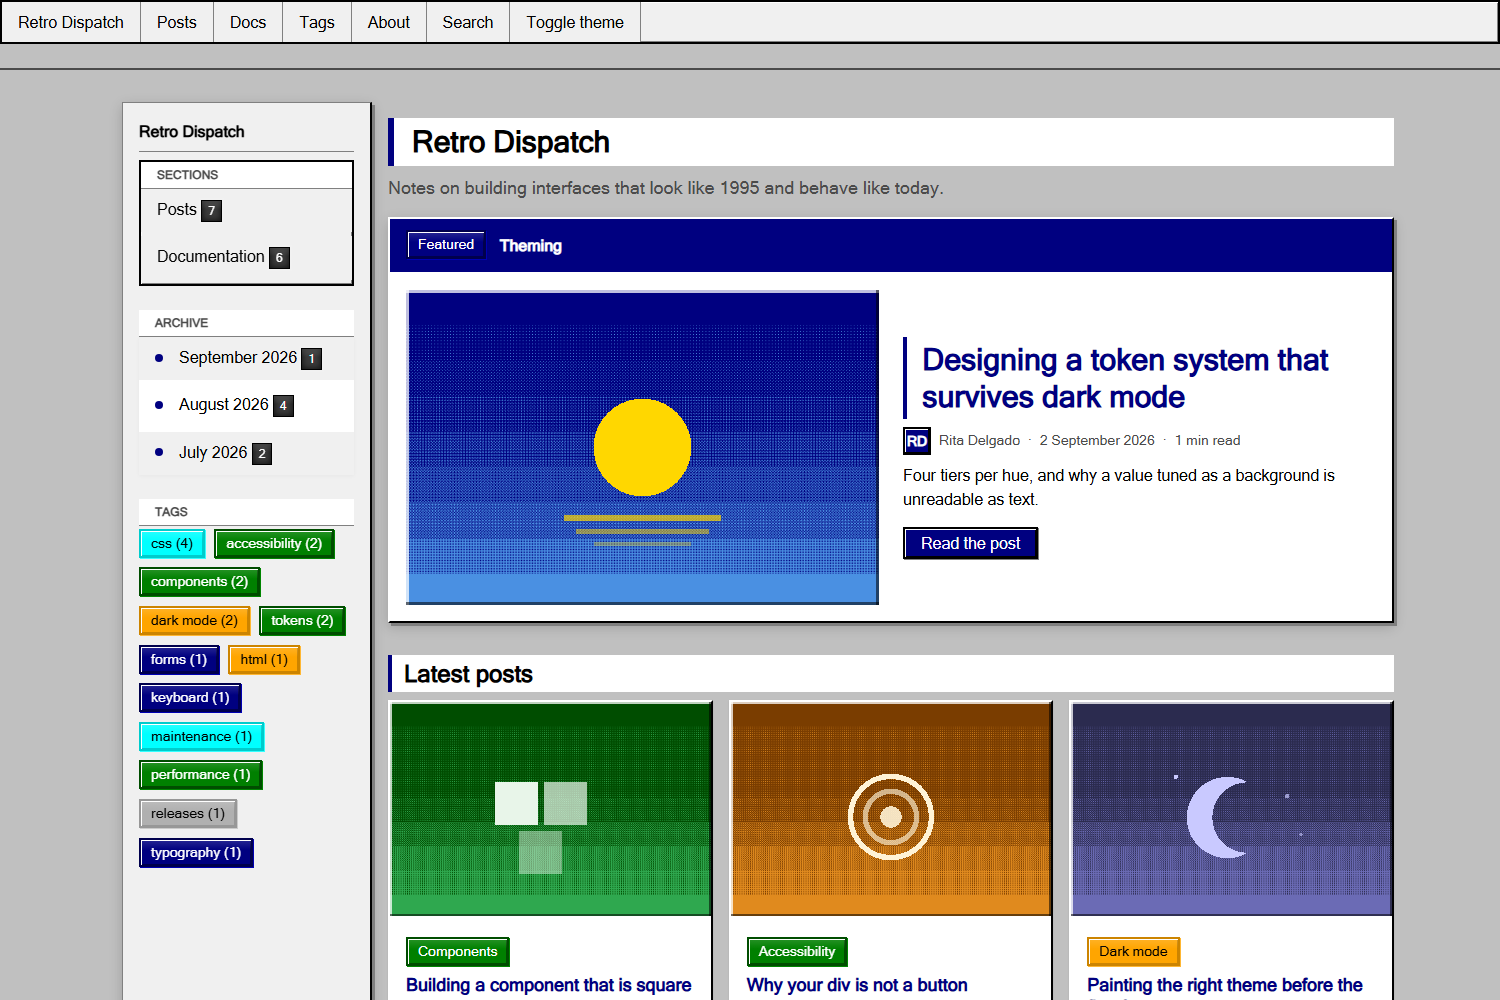
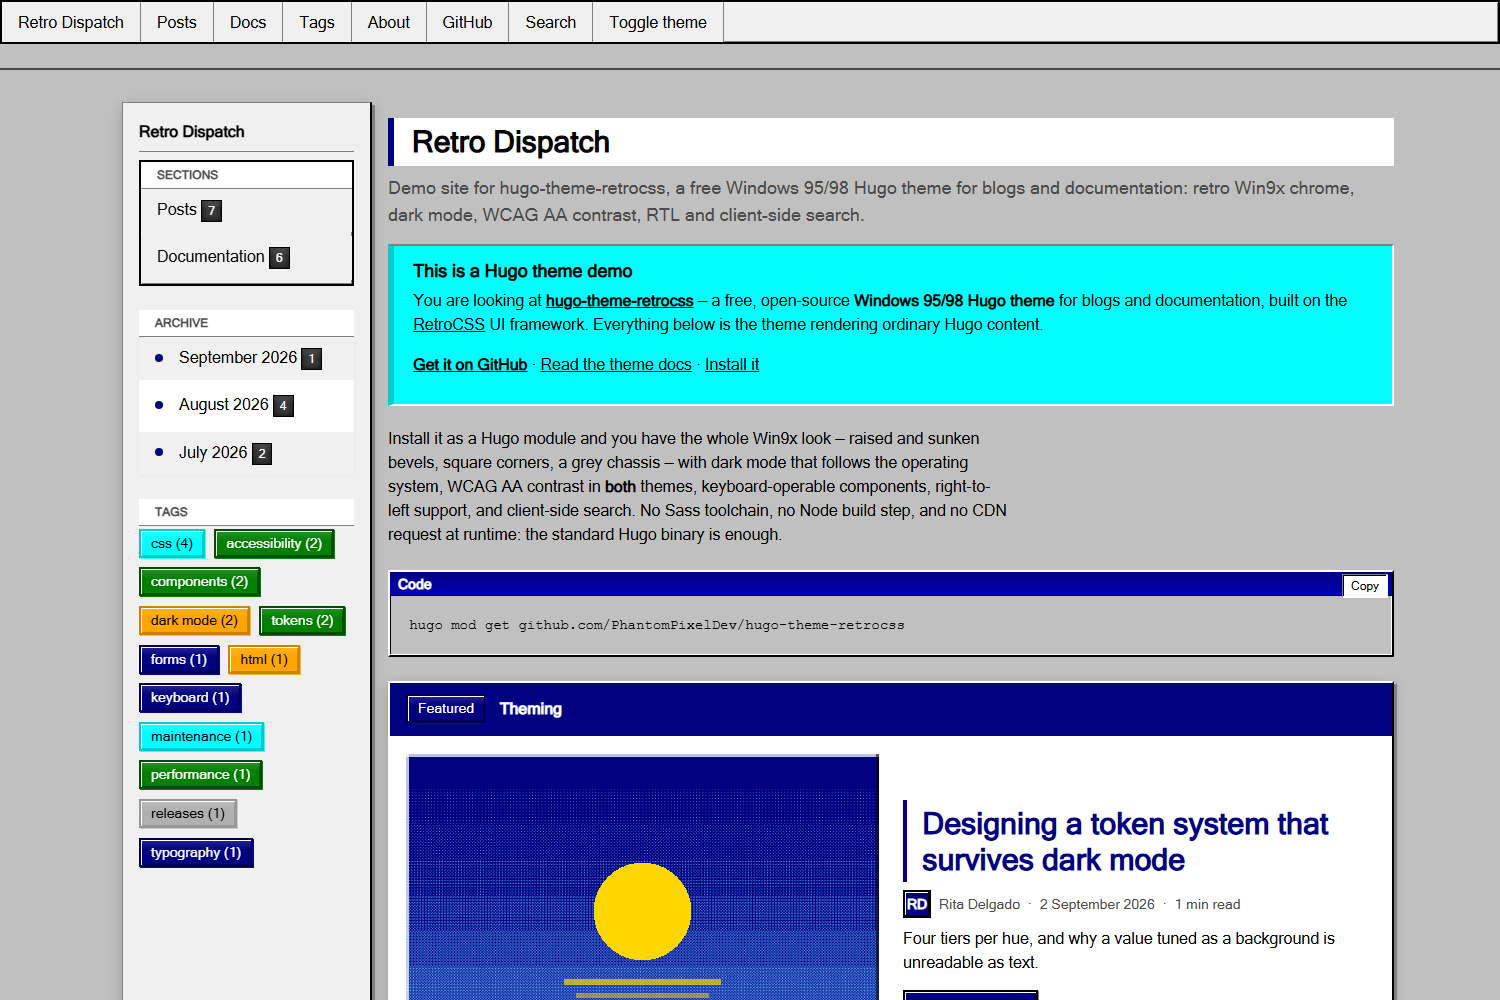
feat: say what the demo site is, and fix links that leave the root
The demo home page now leads with what a visitor actually needs to know —
that this is a Hugo theme, where the source is, and how to install it —
and params.tagline puts that in the home page's <title>, where a search
result was otherwise nothing but the site's name. The footer credits the
theme, which params.themeCredit turns off.

Two defects the new copy exposed:

- A hand-written root-relative link (/docs/) dropped the baseURL's path,
  so every internal link in content 404'd on GitHub Pages. relURL does
  not prefix an already-absolute path, so the render hook takes the
  prefix from the home page's own RelPermalink.
- Links inside a filled alert kept the page-surface link colour, which
  measures 1.56:1 against the info fill in dark mode. They now ride the
  alert's on-fill colour, which is legible by construction. The page gate
  caught this one.

Also adds the module.hugoVersion block and absolute README image paths
that themes.gohugo.io requires, and drops theme.toml's [original] block:
that field is for a ported theme, and this is not one.

diff --git a/layouts/_markup/render-link.html b/layouts/_markup/render-link.html
@@ -1,4 +1,16 @@
 {{- $u := urls.Parse .Destination -}}
 {{- $external := and $u.IsAbs (ne $u.Host (urls.Parse site.BaseURL).Host) -}}
-<a href="{{ .Destination | safeURL }}"{{ with .Title }} title="{{ . }}"{{ end }}
+{{- $href := .Destination -}}
+{{- /* A root-relative link written by hand ("/docs/") ignores the baseURL's
+       path, so it 404s the moment the site is served from a subdirectory —
+       GitHub Pages being the obvious one. relURL does not fix this for an
+       already-absolute path, so the prefix is taken from the home page's own
+       RelPermalink, which is "/" on a site served from the root. */ -}}
+{{- if and (hasPrefix $href "/") (not (hasPrefix $href "//")) -}}
+  {{- $prefix := strings.TrimSuffix "/" site.Home.RelPermalink -}}
+  {{- if and $prefix (not (hasPrefix $href (printf "%s/" $prefix))) -}}
+    {{- $href = printf "%s%s" $prefix $href -}}
+  {{- end -}}
+{{- end -}}
+<a href="{{ $href | safeURL }}"{{ with .Title }} title="{{ . }}"{{ end }}
    {{- if $external }} rel="noopener noreferrer"{{ end }}>{{ .Text }}</a>

diff --git a/layouts/partials/head.html b/layouts/partials/head.html
@@ -1,6 +1,9 @@
 {{- $title := .Title | default site.Title -}}
 {{- $isHome := .IsHome -}}
-{{- $pageTitle := cond $isHome site.Title (printf "%s — %s" $title site.Title) -}}
+{{- /* A home page titled with nothing but the site name tells a search engine
+       nothing about what the site is; params.tagline is what fills that in. */ -}}
+{{- $pageTitle := printf "%s — %s" $title site.Title -}}
+{{- if $isHome }}{{ $pageTitle = site.Title }}{{ with site.Params.tagline }}{{ $pageTitle = printf "%s — %s" site.Title . }}{{ end }}{{ end -}}
 {{- $description := .Description | default (.Summary | plainify | truncate 160) | default site.Params.description | default site.Params.Description -}}
 <meta charset="utf-8">
 <meta name="viewport" content="width=device-width, initial-scale=1.0">

diff --git a/assets/css/theme.css b/assets/css/theme.css
@@ -128,3 +128,11 @@
 .search-result { margin-bottom: var(--retro-spacing-md); }
 .search-result h2 { margin: 0 0 var(--retro-spacing-xs); font-size: var(--retro-font-size-lg); }
 .search-result mark { background: var(--retro-warning); color: var(--retro-warning-fg); }
+
+/* --- links on filled surfaces ------------------------------------------- */
+/* The default link colour is tuned as text on a *page* surface. Inside a
+   filled alert it is being read against the hue itself — 1.56:1 on the info
+   fill in dark mode. Riding the alert's own on-fill colour is legible by
+   construction, because the framework guarantees every fill/on-fill pair. */
+.retro-alert a { color: inherit; text-decoration: underline; }
+.retro-alert a:hover { text-decoration: none; }

diff --git a/layouts/partials/footer.html b/layouts/partials/footer.html
@@ -7,7 +7,11 @@
     {{ i18n "builtWith" | default "Built with" }}
     <a href="https://gohugo.io/">Hugo</a>
     {{ i18n "and" | default "and" }}
-    <a href="https://github.com/PhantomPixelDev/RetroCSS">RetroCSS{{ with $retro }} {{ .version }}{{ end }}</a>
+    {{- if site.Params.themeCredit | default true }}
+    <a href="https://github.com/PhantomPixelDev/hugo-theme-retrocss" rel="noopener">RetroCSS for Hugo</a>
+    {{- else }}
+    <a href="https://github.com/PhantomPixelDev/RetroCSS" rel="noopener">RetroCSS{{ with $retro }} {{ .version }}{{ end }}</a>
+    {{- end }}
     {{- with .OutputFormats.Get "rss" }} &middot; <a href="{{ .RelPermalink }}">RSS</a>{{ end -}}
   </p>
 </footer>

diff --git a/layouts/partials/nav.html b/layouts/partials/nav.html
@@ -14,7 +14,8 @@
     </div>
       {{- else }}
     <a class="retro-nav-item" href="{{ .URL | relLangURL }}"
-       {{- with .Title }} data-retro-tooltip="{{ . }}"{{ end }}
+       {{- with .Params.tooltip }} data-retro-tooltip="{{ . }}"{{ end }}
+       {{- if strings.HasPrefix .URL "http" }} rel="noopener"{{ end }}
        {{- if or ($.IsMenuCurrent .Menu .) ($.HasMenuCurrent .Menu .) }} aria-current="page"{{ end }}>{{ .Name }}</a>
       {{- end }}
     {{- end }}

diff --git a/README.md b/README.md
@@ -11,7 +11,7 @@
 
 **[📺 Live demo](https://phantompixeldev.github.io/hugo-theme-retrocss/) • [🎨 RetroCSS](https://github.com/PhantomPixelDev/RetroCSS) • [📖 Theme docs](https://phantompixeldev.github.io/hugo-theme-retrocss/docs/)**
 
-![The demo site in light mode](images/screenshot.png)
+![The demo site in light mode](https://raw.githubusercontent.com/PhantomPixelDev/hugo-theme-retrocss/main/images/screenshot.png)
 
 </div>
 
@@ -36,8 +36,8 @@ Every shot below is the demo site in this repository, captured from the built ou
 
 | | |
 | --- | --- |
-| ![Home page in dark mode: sidebar with sections, archive and tag cloud, a featured post card, and a grid of post cards](images/home-dark.png) **Home, dark** | ![A blog post in light mode: breadcrumbs, hero image, byline, prose, and a code block with a Windows 95 title bar](images/post.png) **Post, light** |
-| ![A documentation page in dark mode: section tree, in-page contents, and the shortcode gallery showing alerts and cards](images/docs.png) **Docs, dark** | ![The search page in light mode showing three ranked results for the query "dark"](images/search.png) **Search, light** |
+| ![Home page in dark mode: sidebar with sections, archive and tag cloud, a featured post card, and a grid of post cards](https://raw.githubusercontent.com/PhantomPixelDev/hugo-theme-retrocss/main/images/home-dark.png) **Home, dark** | ![A blog post in light mode: breadcrumbs, hero image, byline, prose, and a code block with a Windows 95 title bar](https://raw.githubusercontent.com/PhantomPixelDev/hugo-theme-retrocss/main/images/post.png) **Post, light** |
+| ![A documentation page in dark mode: section tree, in-page contents, and the shortcode gallery showing alerts and cards](https://raw.githubusercontent.com/PhantomPixelDev/hugo-theme-retrocss/main/images/docs.png) **Docs, dark** | ![The search page in light mode showing three ranked results for the query "dark"](https://raw.githubusercontent.com/PhantomPixelDev/hugo-theme-retrocss/main/images/search.png) **Search, light** |
 
 ## Requirements
 
@@ -97,6 +97,7 @@ capitalizeListTitles = false
 
 [params]
   description = "Notes on building interfaces that look like 1995 and behave like today."
+  tagline = "a Windows 95/98 Hugo theme"   # appended to the home page's <title>
 
   # --- chrome ---
   accentHue = "primary"   # any RetroCSS hue: teal, violet, gold, navy, …
@@ -115,6 +116,7 @@ capitalizeListTitles = false
 
   # --- features ---
   search = true
+  themeCredit = true      # "Built with Hugo and RetroCSS for Hugo" in the footer
 
   # --- SEO ---
   images = ["images/og-card.png"]

diff --git a/exampleSite/content/_index.md b/exampleSite/content/_index.md
@@ -1,0 +1,26 @@
+---
+title: "Retro Dispatch"
+---
+
+{{< alert type="info" title="This is a Hugo theme demo" >}}
+You are looking at **[hugo-theme-retrocss](https://github.com/PhantomPixelDev/hugo-theme-retrocss)** —
+a free, open-source **Windows 95/98 Hugo theme** for blogs and documentation,
+built on the [RetroCSS](https://github.com/PhantomPixelDev/RetroCSS) UI framework.
+Everything below is the theme rendering ordinary Hugo content.
+
+[**Get it on GitHub**](https://github.com/PhantomPixelDev/hugo-theme-retrocss) ·
+[Read the theme docs](/docs/) ·
+[Install it](/docs/install/)
+{{< /alert >}}
+
+Install it as a Hugo module and you have the whole Win9x look — raised and
+sunken bevels, square corners, a grey chassis — with dark mode that follows the
+operating system, WCAG AA contrast in **both** themes, keyboard-operable
+components, right-to-left support, and client-side search. No Sass toolchain,
+no Node build step, and no CDN request at runtime: the standard Hugo binary is
+enough.
+
+```bash
+hugo mod get github.com/PhantomPixelDev/hugo-theme-retrocss
+```
+

diff --git a/exampleSite/content/docs/configuration.md b/exampleSite/content/docs/configuration.md
@@ -14,6 +14,14 @@ themes.
 `params.borderRadius` is the framework's single radius token. `0` keeps the
 Windows 95 squares.
 
+## Titles and credit
+
+`params.tagline` is appended to the site title in the home page's `<title>`, so
+a search result says what the site *is* rather than only what it is called.
+
+`params.themeCredit` controls the footer line. Left alone it credits the theme;
+set it to `false` and the footer credits the RetroCSS framework instead.
+
 ## The docs section
 
 Docs layouts are selected by page *type*, so the section's `_index.md` sets it
